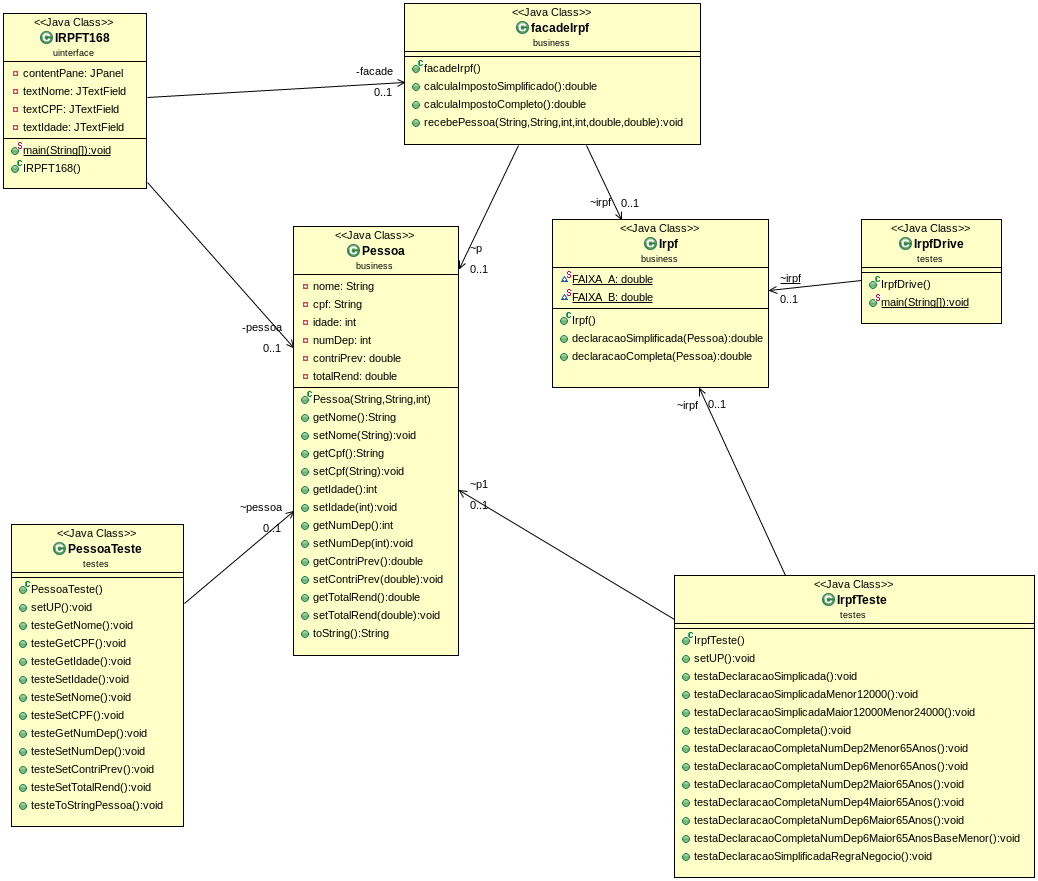
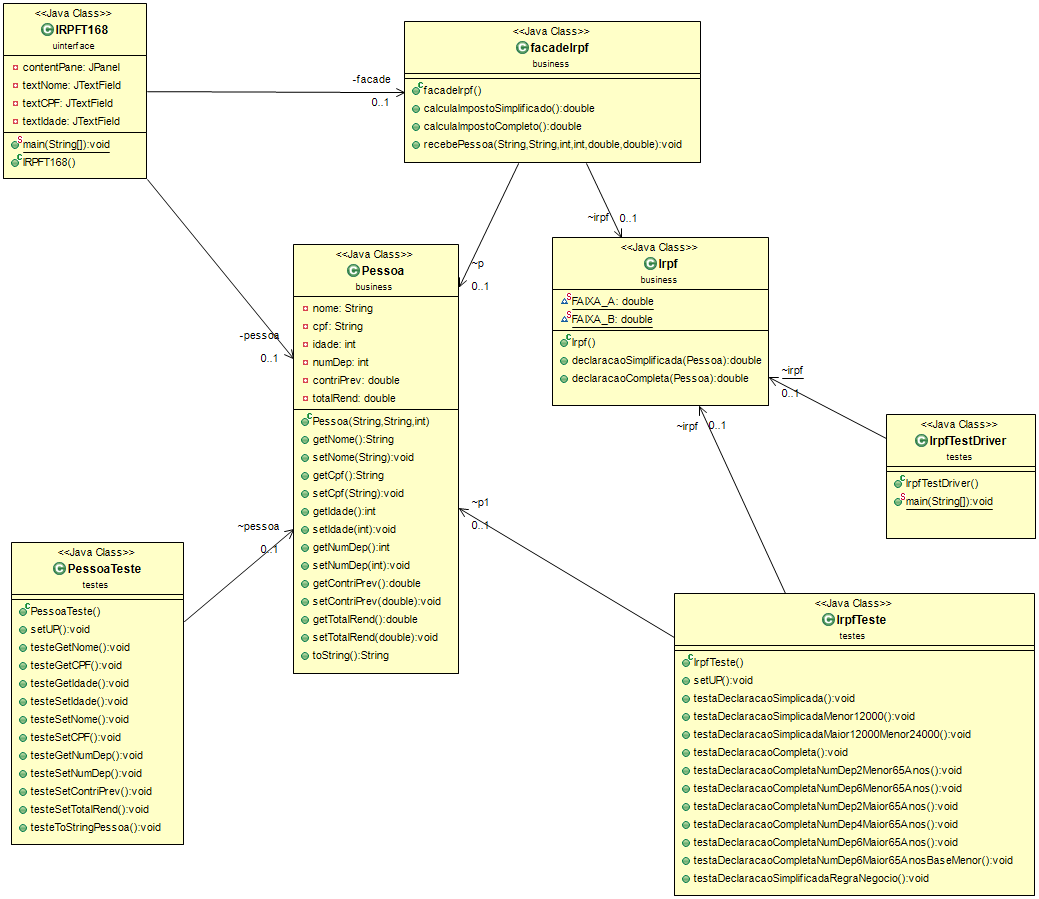
Criação da classe de testes da facade...

diff --git a/src/testes/facadeIrpfTeste.java b/src/testes/facadeIrpfTeste.java
@@ -1,0 +1,48 @@
+package testes;
+
+import static org.junit.Assert.*;
+
+import org.junit.Before;
+import org.junit.Test;
+
+import business.FacadeIrpf;
+import business.Pessoa;
+
+public class facadeIrpfTeste {
+	
+	Pessoa p1;
+	FacadeIrpf facade;
+	
+	@Before
+	public void setUP(){
+		facade = new FacadeIrpf();
+		facade.recebePessoa("Viviane", "70849335016", 40, 2, 1500.00, 39000.00); //4996.88 - 5306.25
+	}
+	
+	@Test
+	public void testacalculaImpostoSimplificado(){
+		double retorno = facade.calculaImpostoSimplificado();
+		assertEquals(4996.88, retorno, 0.01);
+	}
+	
+	@Test
+	public void testacalculaImpostoCompleto(){
+		double retorno = facade.calculaImpostoCompleto();
+		assertEquals(5306.25, retorno, 0.01);		
+	}
+	
+	@Test
+	public void testaRecebePessoa(){
+		Pessoa pessoa;
+		facade.recebePessoa("Miguel", "1234567890", 38, 1, 1500.00, 39000.00); //4996.88 - 5306.25
+		pessoa = facade.getPessoa();
+		assertEquals("Miguel",pessoa.getNome());
+		assertEquals("1234567890",pessoa.getCpf());
+		assertEquals(38,pessoa.getIdade());
+		assertEquals(1,pessoa.getNumDep());
+		assertEquals(1500.00,pessoa.getContriPrev(),0.01);
+		assertEquals(39000.00,pessoa.getTotalRend(),0.01);
+	}
+	
+
+}

diff --git a/src/uinterface/IRPFT168.java b/src/uinterface/IRPFT168.java
@@ -15,7 +15,7 @@ import javax.swing.text.MaskFormatter;
 
 import business.Irpf;
 import business.Pessoa;
-import business.facadeIrpf;
+import business.FacadeIrpf;
 
 import javax.swing.JTextField;
 import javax.swing.JSpinner;
@@ -37,7 +37,7 @@ public class IRPFT168 extends JFrame {
 	private JTextField textNome;
 	private JTextField textCPF;
 	private JTextField textIdade;
-	private facadeIrpf facade;
+	private FacadeIrpf facade;
 	private Pessoa pessoa;
 
 	/**
@@ -175,7 +175,7 @@ public class IRPFT168 extends JFrame {
 					double contribuicao = (double) txtContribuicao.getValue();
 					double totalrendimentos = (double) txtTotalRendimentos.getValue();
 					
-					facade = new facadeIrpf();
+					facade = new FacadeIrpf();
 
 					if (rdbtnSim.isSelected()) {
 						facade.recebePessoa(nome, cpf, idade, dependentes, contribuicao, totalrendimentos);

diff --git a/src/business/FacadeIrpf.java b/src/business/FacadeIrpf.java
@@ -1,11 +1,11 @@
 package business;
 
-public class facadeIrpf {	
+public class FacadeIrpf {	
 	//Classe fachada que inicia as outras classes;
 	Irpf irpf;
 	Pessoa p;
 	
-	public facadeIrpf() {
+	public FacadeIrpf() {
 		irpf = new Irpf();
 	}
 		
@@ -23,5 +23,9 @@ public class facadeIrpf {
 		p.setNumDep(nDep);
 		p.setContriPrev(contribuicao);
 		p.setTotalRend(totalRendimentos);
+	}
+	
+	public Pessoa getPessoa(){
+		return p;
 	}
 }

diff --git a/src/testes/IrpfTestDriver.java b/src/testes/IrpfTestDriver.java
@@ -3,7 +3,7 @@ package testes;
 import business.Irpf;
 import business.Pessoa;
 
-public class IrpfDrive {
+public class IrpfTestDriver {
 
 	static Irpf irpf;
 	
